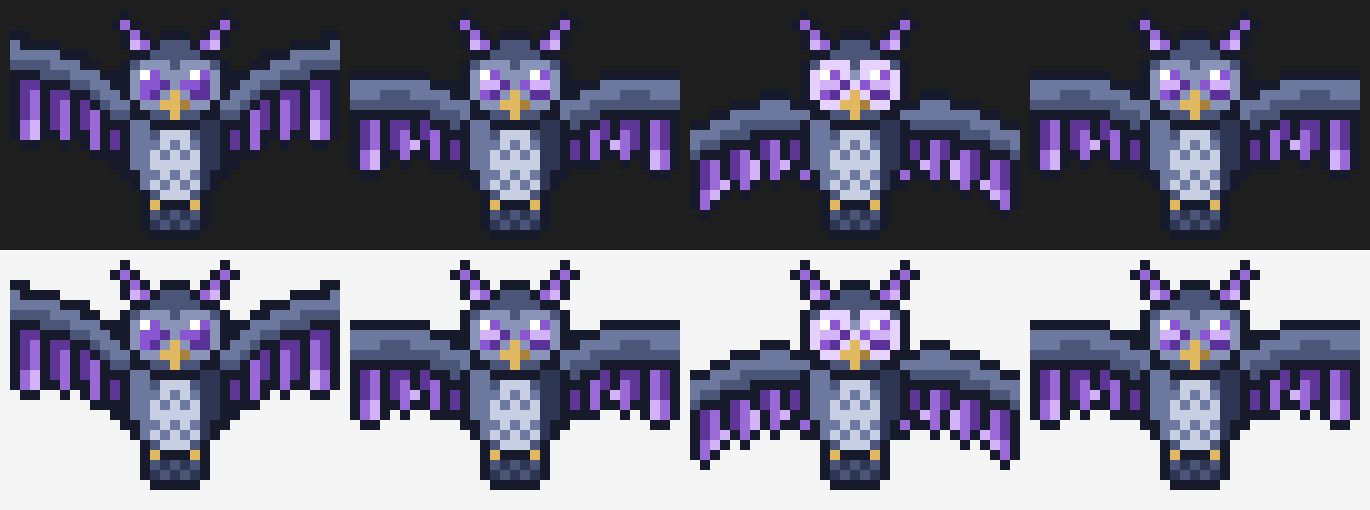
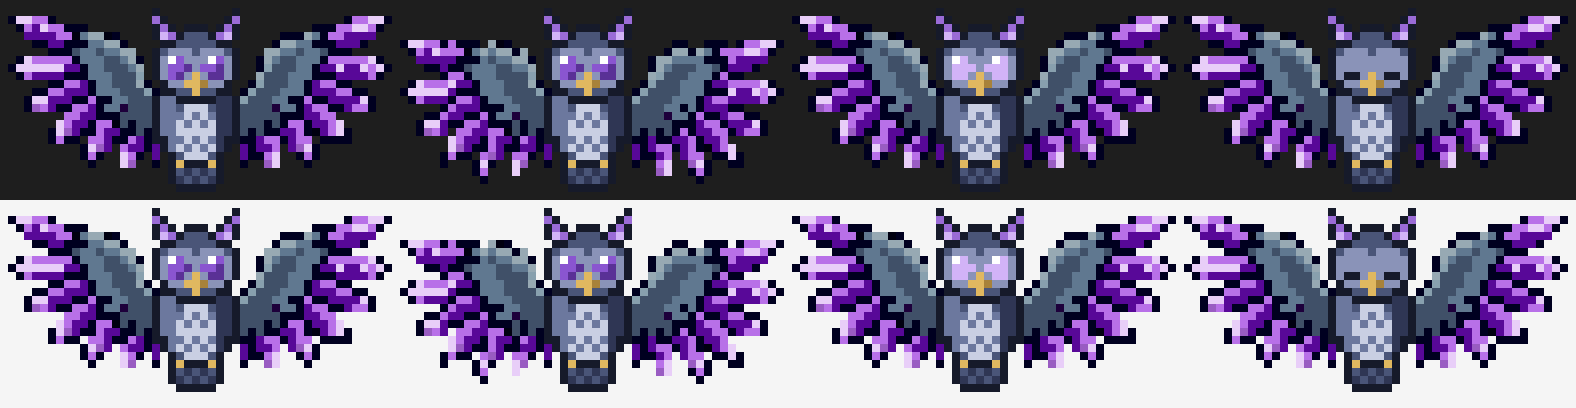
P5-26: give Amethowl crystal wings from @danielpg95's reference

diff --git a/plugin/content/CREDITS.md b/plugin/content/CREDITS.md
@@ -31,7 +31,7 @@ noted (decision 0011). Add a row whenever you add or change an asset.
 | `modsters/quartzclaw/sprite.png` | @danielpg95 (drawn with Claude Code) | CC BY 4.0 | Quartzclaw, redrawn in P5-26 from @danielpg95's reference |
 | `modsters/geodon/sprite.png` | @danielpg95 (drawn with Claude Code) | CC BY 4.0 | Geodon, redrawn in P5-26 from @danielpg95's reference |
 | `modsters/gemsnake/sprite.png` | @danielpg95 (drawn with Claude Code) | CC BY 4.0 | Gemsnake, redrawn in P5-26 from @danielpg95's reference |
-| `modsters/amethowl/sprite.png` | @danielpg95 (drawn with Claude Code) | CC BY 4.0 | Crystal Grotto |
+| `modsters/amethowl/sprite.png` | @danielpg95 (drawn with Claude Code) | CC BY 4.0 | Amethowl, redrawn in P5-26: the original body with crystal wings from @danielpg95's reference |
 | `modsters/geolem/sprite.png` | @danielpg95 (drawn with Claude Code) | CC BY 4.0 | Crystal Grotto |
 | `modsters/pinekin/sprite.png` | @danielpg95 (drawn with Claude Code) | CC BY 4.0 | P5-19 |
 | `modsters/hollowmask/sprite.png` | @danielpg95 (drawn with Claude Code) | CC BY 4.0 | P5-19 |
